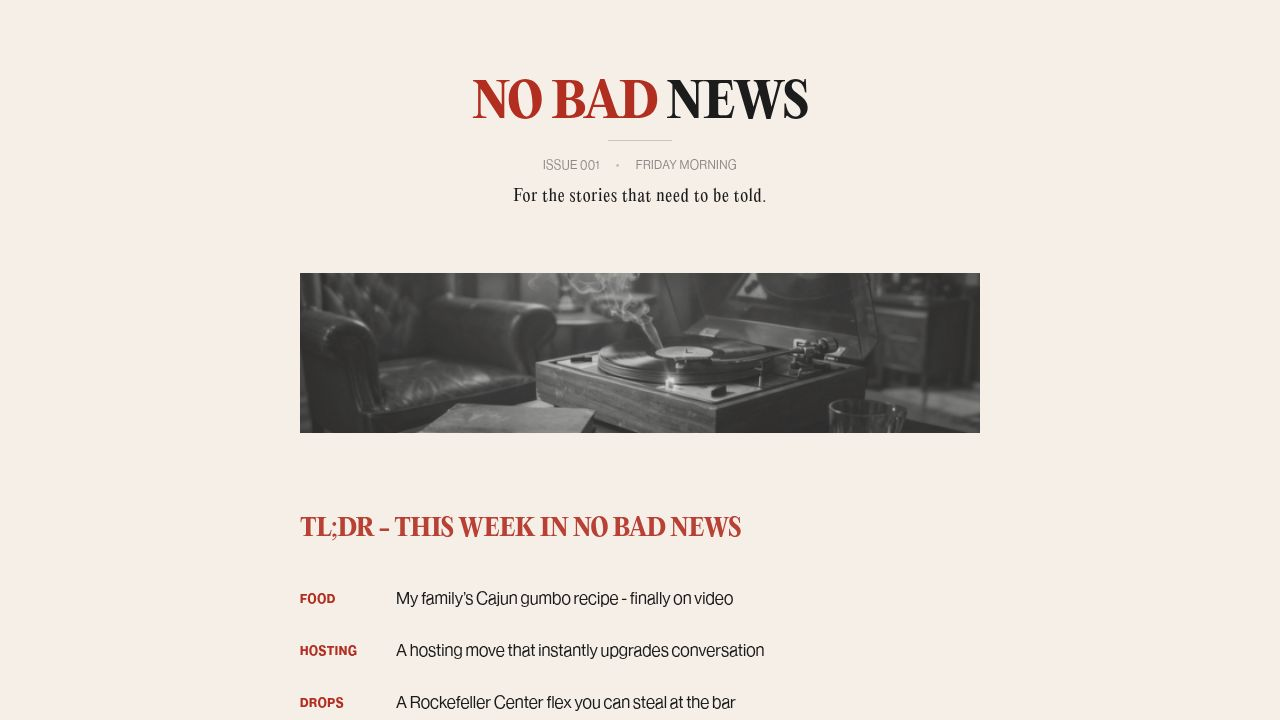
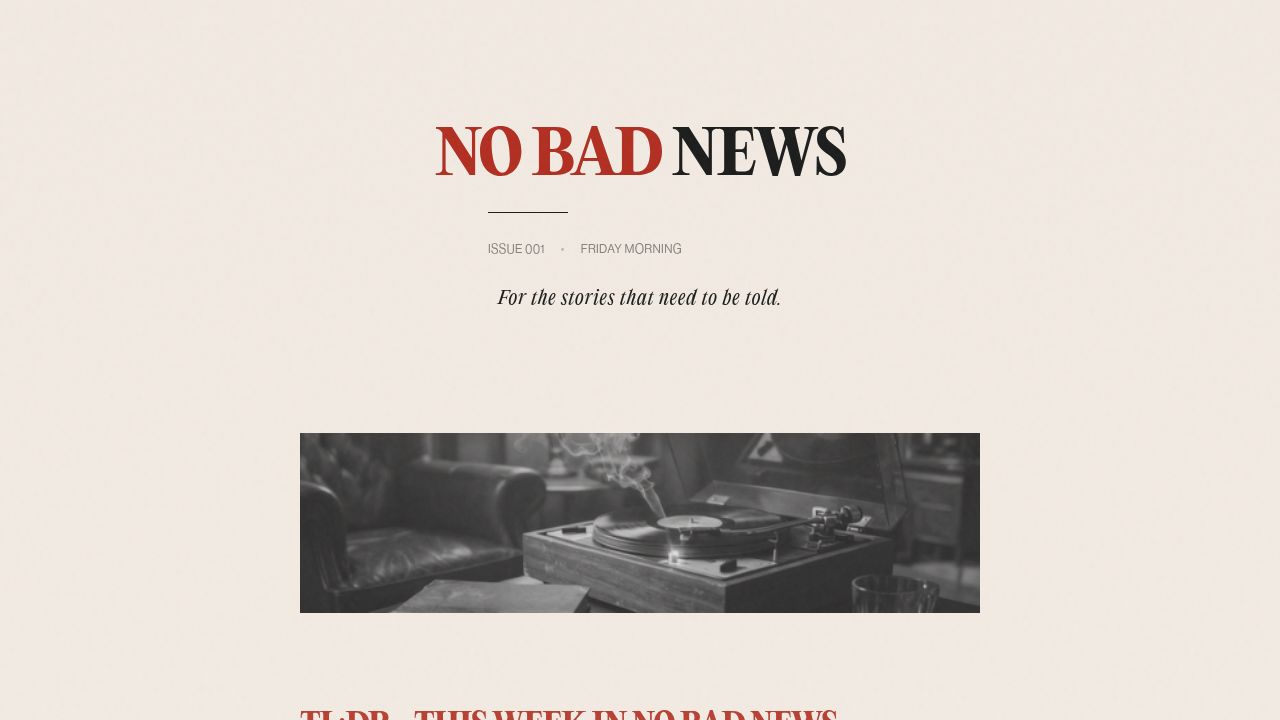
Improve website layout and text sizing for mobile devices
Adjust vertical spacing, masthead text size, and grid layouts for responsive design across various screen sizes.

Replit-Commit-Author: Agent
Replit-Commit-Session-Id: c24dc4d6-a18f-42b6-a049-433b7ea39b54
Replit-Commit-Checkpoint-Type: full_checkpoint
Replit-Commit-Event-Id: 50086ee9-57b1-4934-ba77-f5ebe33ac4fd
Replit-Commit-Screenshot-Url: https://storage.googleapis.com/screenshot-production-us-central1/2a95231f-858c-4646-9f49-a7f55353faed/c24dc4d6-a18f-42b6-a049-433b7ea39b54/lVNXEuB
Replit-Helium-Checkpoint-Created: true

diff --git a/client/src/pages/Newsletter.tsx b/client/src/pages/Newsletter.tsx
@@ -5,15 +5,15 @@ import chloeGameImage from "@assets/chloegamestaff_1766515584240.jpeg";
 
 export default function Newsletter() {
   return (
-    <div className="min-h-screen flex flex-col items-center py-24 px-4 sm:px-6 lg:px-8 relative" style={{ background: 'radial-gradient(circle at center, #F5EFE8 0%, #F2EAE2 100%)' }}>
+    <div className="min-h-screen flex flex-col items-center py-12 md:py-24 px-4 sm:px-6 lg:px-8 relative" style={{ background: 'radial-gradient(circle at center, #F5EFE8 0%, #F2EAE2 100%)' }}>
       <div className="noise-overlay"></div>
       {/* Email Container - Simulating standard email width */}
       <div className="w-full max-w-[680px] bg-transparent relative z-10">
         
         {/* Masthead */}
-        <header className="mb-24 pt-8 px-8">
+        <header className="mb-12 md:mb-24 pt-8 px-8">
           <div className="flex flex-col items-center">
-            <h1 className="font-serif text-6xl tracking-[-0.04em] mb-6 font-extrabold text-[#1C1C1C] relative text-center w-full">
+            <h1 className="font-serif text-4xl md:text-6xl tracking-[-0.04em] mb-6 font-extrabold text-[#1C1C1C] relative text-center w-full">
               <span className="text-[#B22E21]">NO BAD</span> NEWS
             </h1>
             
@@ -33,7 +33,7 @@ export default function Newsletter() {
         </header>
 
         {/* Quiet Top Banner */}
-        <div className="w-full h-[180px] mb-24 overflow-hidden opacity-90">
+        <div className="w-full h-[180px] mb-12 md:mb-24 overflow-hidden opacity-90">
           <img 
             src={bannerImage}
             alt="Atmospheric texture" 
@@ -42,7 +42,7 @@ export default function Newsletter() {
         </div>
 
         {/* TL;DR Section */}
-        <section className="mb-24">
+        <section className="mb-12 md:mb-24">
           <h2 className="font-serif text-3xl font-bold tracking-[-0.04em] text-[#B22E21] uppercase mb-10 opacity-90">
             TL;DR - This Week in No Bad News
           </h2>
@@ -79,10 +79,10 @@ export default function Newsletter() {
             </li>
           </ul>
         </section>
-        <div className="w-[80%] mx-auto h-[1px] bg-[#1C1C1C]/10 mb-24 mt-12"></div>
+        <div className="w-[80%] mx-auto h-[1px] bg-[#1C1C1C]/10 mb-12 md:mb-24 mt-12"></div>
 
         {/* Editor's Note */}
-        <section className="mb-24 pt-8">
+        <section className="mb-12 md:mb-24 pt-8">
           <h2 className="font-serif text-3xl font-bold tracking-[-0.04em] text-[#B22E21] mb-10">
             Editor’s Note - Adam’s Corner
           </h2>
@@ -102,11 +102,11 @@ export default function Newsletter() {
           </div>
         </section>
 
-        <div className="w-[80%] mx-auto h-[1px] bg-[#1C1C1C]/10 mb-24 mt-12"></div>
+        <div className="w-[80%] mx-auto h-[1px] bg-[#1C1C1C]/10 mb-12 md:mb-24 mt-12"></div>
 
         {/* No Bad Company - Community Spotlight (FEATURE) */}
-        <div className="w-[80%] mx-auto h-[1px] bg-[#1C1C1C]/10 mb-24 mt-12"></div>
-        <section className="mb-24 pt-8">
+        <div className="w-[80%] mx-auto h-[1px] bg-[#1C1C1C]/10 mb-12 md:mb-24 mt-12"></div>
+        <section className="mb-12 md:mb-24 pt-8">
           <h2 className="font-serif text-3xl font-bold tracking-[-0.04em] text-[#B22E21] mb-10">
             No Bad Company
           </h2>
@@ -145,10 +145,10 @@ export default function Newsletter() {
           </div>
         </section>
 
-        <div className="w-[80%] mx-auto h-[1px] bg-[#1C1C1C]/10 mb-24 mt-12"></div>
+        <div className="w-[80%] mx-auto h-[1px] bg-[#1C1C1C]/10 mb-12 md:mb-24 mt-12"></div>
 
         {/* No Bad Food */}
-        <section id="food" className="mb-24 pt-8">
+        <section id="food" className="mb-12 md:mb-24 pt-8">
           <h2 className="font-serif text-3xl font-bold tracking-[-0.04em] text-[#B22E21] mb-10">
             No Bad Food
           </h2>
@@ -178,19 +178,19 @@ export default function Newsletter() {
         <div className="w-[80%] mx-auto h-[1px] bg-[#1C1C1C]/10 mb-24 mt-12"></div>
 
         {/* Sponsor Slot 1 */}
-        <div className="w-[80%] mx-auto h-[1px] bg-[#1C1C1C]/10 mb-24 mt-12"></div>
+        <div className="w-[80%] mx-auto h-[1px] bg-[#1C1C1C]/10 mb-12 md:mb-24 mt-12"></div>
         <div 
-          className="border-[0.5px] border-[#1C1C1C] py-12 px-6 text-center mb-24 bg-transparent"
+          className="border-[0.5px] border-[#1C1C1C] py-12 px-6 text-center mb-12 md:mb-24 bg-transparent"
           style={{ boxShadow: 'inset 2px 0 0 0 #B22E21' }}
         >
-          <p className="font-sans font-bold text-xs tracking-widest uppercase text-[#1C1C1C] opacity-90">
+          <p className="font-sans font-bold text-xs tracking-widest uppercase text-[#1C1C1C] opacity-90 text-balance">
             <span className="text-[#B22E21]">PARTNER OPPORTUNITY:</span> THIS SPACE IS <span className="text-[#B22E21]">RESERVED</span> FOR A BRAND WE GENUINELY BELIEVE IN.
           </p>
         </div>
-        <div className="w-[80%] mx-auto h-[1px] bg-[#1C1C1C]/10 mb-24 mt-12"></div>
+        <div className="w-[80%] mx-auto h-[1px] bg-[#1C1C1C]/10 mb-12 md:mb-24 mt-12"></div>
 
         {/* No Bad Hosting */}
-        <section id="hosting" className="mb-24 pt-8">
+        <section id="hosting" className="mb-12 md:mb-24 pt-8">
           <h2 className="font-serif text-3xl font-bold tracking-[-0.04em] text-[#B22E21] mb-10">
             No Bad Hosting
           </h2>
@@ -215,10 +215,10 @@ export default function Newsletter() {
           </div>
         </section>
 
-        <div className="w-[80%] mx-auto h-[1px] bg-[#1C1C1C]/10 mb-24 mt-12"></div>
+        <div className="w-[80%] mx-auto h-[1px] bg-[#1C1C1C]/10 mb-12 md:mb-24 mt-12"></div>
 
         {/* No Bad Tips */}
-        <section id="tips" className="mb-24 pt-8">
+        <section id="tips" className="mb-12 md:mb-24 pt-8">
           <h2 className="font-serif text-3xl font-bold tracking-[-0.04em] text-[#B22E21] mb-10">
             No Bad Drops
           </h2>
@@ -241,10 +241,10 @@ export default function Newsletter() {
           </div>
         </section>
 
-        <div className="w-[80%] mx-auto h-[1px] bg-[#1C1C1C]/10 mb-24 mt-12"></div>
+        <div className="w-[80%] mx-auto h-[1px] bg-[#1C1C1C]/10 mb-12 md:mb-24 mt-12"></div>
 
         {/* No Bad Music */}
-        <section id="music" className="mb-24 pt-8">
+        <section id="music" className="mb-12 md:mb-24 pt-8">
           <h2 className="font-serif text-3xl font-bold tracking-[-0.04em] text-[#B22E21] mb-10">
             No Bad Music
           </h2>
@@ -281,10 +281,10 @@ export default function Newsletter() {
           </div>
         </section>
 
-        <div className="w-[80%] mx-auto h-[1px] bg-[#1C1C1C]/10 mb-24 mt-12"></div>
+        <div className="w-[80%] mx-auto h-[1px] bg-[#1C1C1C]/10 mb-12 md:mb-24 mt-12"></div>
 
         {/* No Bad Design */}
-        <section id="design" className="mb-24 pt-8">
+        <section id="design" className="mb-12 md:mb-24 pt-8">
           <h2 className="font-serif text-3xl font-bold tracking-[-0.04em] text-[#B22E21] mb-10">
             No Bad Design
           </h2>
@@ -327,10 +327,10 @@ export default function Newsletter() {
           </div>
         </section>
 
-        <div className="w-[80%] mx-auto h-[1px] bg-[#1C1C1C]/10 mb-24 mt-12"></div>
+        <div className="w-[80%] mx-auto h-[1px] bg-[#1C1C1C]/10 mb-12 md:mb-24 mt-12"></div>
 
         {/* No Bad Plans */}
-        <section className="mb-24 pt-8">
+        <section className="mb-12 md:mb-24 pt-8">
           <h2 className="font-serif text-3xl font-bold tracking-[-0.04em] text-[#B22E21] mb-10">
             No Bad Plans
           </h2>
@@ -338,7 +338,7 @@ export default function Newsletter() {
             One thing actually worth leaving the house for.
           </p>
 
-          <div className="grid grid-cols-1 md:grid-cols-2 gap-12 items-center mb-24">
+          <div className="grid grid-cols-1 md:grid-cols-2 gap-12 items-center mb-12 md:mb-24">
             <div className="order-2 md:order-1">
               <div className="prose prose-neutral max-w-none font-body text-[#1C1C1C] text-[17px] leading-[1.6]">
                 <h3 className="font-serif text-2xl text-[#1C1C1C] mb-2">Chloe’s Game</h3>
@@ -350,7 +350,7 @@ export default function Newsletter() {
                   <span>•</span>
                   <span>Austin, TX</span>
                   <span>•</span>
-                  <a href="#" className="underline decoration-[#B22E21]/30 underline-offset-4 hover:text-[#1C1C1C] transition-colors">Request Invite</a>
+                  <a href="#" className="underline decoration-[#B22E21]/30 underline-offset-4 hover:text-[#1C1C1C] transition-colors inline-block py-2 md:py-0">Request Invite</a>
                 </div>
               </div>
             </div>
@@ -365,21 +365,21 @@ export default function Newsletter() {
           </div>
 
           {/* Sponsor Slot 2 (Inside No Bad Plans - Below Feature) */}
-          <div className="w-[80%] mx-auto h-[1px] bg-[#1C1C1C]/10 mb-24 mt-12"></div>
+          <div className="w-[80%] mx-auto h-[1px] bg-[#1C1C1C]/10 mb-12 md:mb-24 mt-12"></div>
           <div 
-            className="border-[0.5px] border-[#1C1C1C] py-12 px-6 text-center mb-24 bg-transparent"
+            className="border-[0.5px] border-[#1C1C1C] py-12 px-6 text-center mb-12 md:mb-24 bg-transparent"
             style={{ boxShadow: 'inset 2px 0 0 0 #B22E21' }}
           >
-            <p className="font-sans font-bold text-xs tracking-widest uppercase text-[#1C1C1C] opacity-90">
+            <p className="font-sans font-bold text-xs tracking-widest uppercase text-[#1C1C1C] opacity-90 text-balance">
               <span className="text-[#B22E21]">PARTNER OPPORTUNITY:</span> THIS SPACE IS <span className="text-[#B22E21]">RESERVED</span> FOR A BRAND WE GENUINELY BELIEVE IN.
             </p>
           </div>
         </section>
 
-        <div className="w-[80%] mx-auto h-[1px] bg-[#1C1C1C]/10 mb-24 mt-12"></div>
+        <div className="w-[80%] mx-auto h-[1px] bg-[#1C1C1C]/10 mb-12 md:mb-24 mt-12"></div>
 
         {/* Today's Thought (Sign-off) */}
-        <section className="mb-24 mt-12 md:mt-20 text-center px-4">
+        <section className="mb-12 md:mb-24 mt-12 md:mt-20 text-center px-4">
           <h2 className="font-serif text-xl font-bold tracking-tight text-[#B22E21] mb-6">
             Today’s Thought
           </h2>
